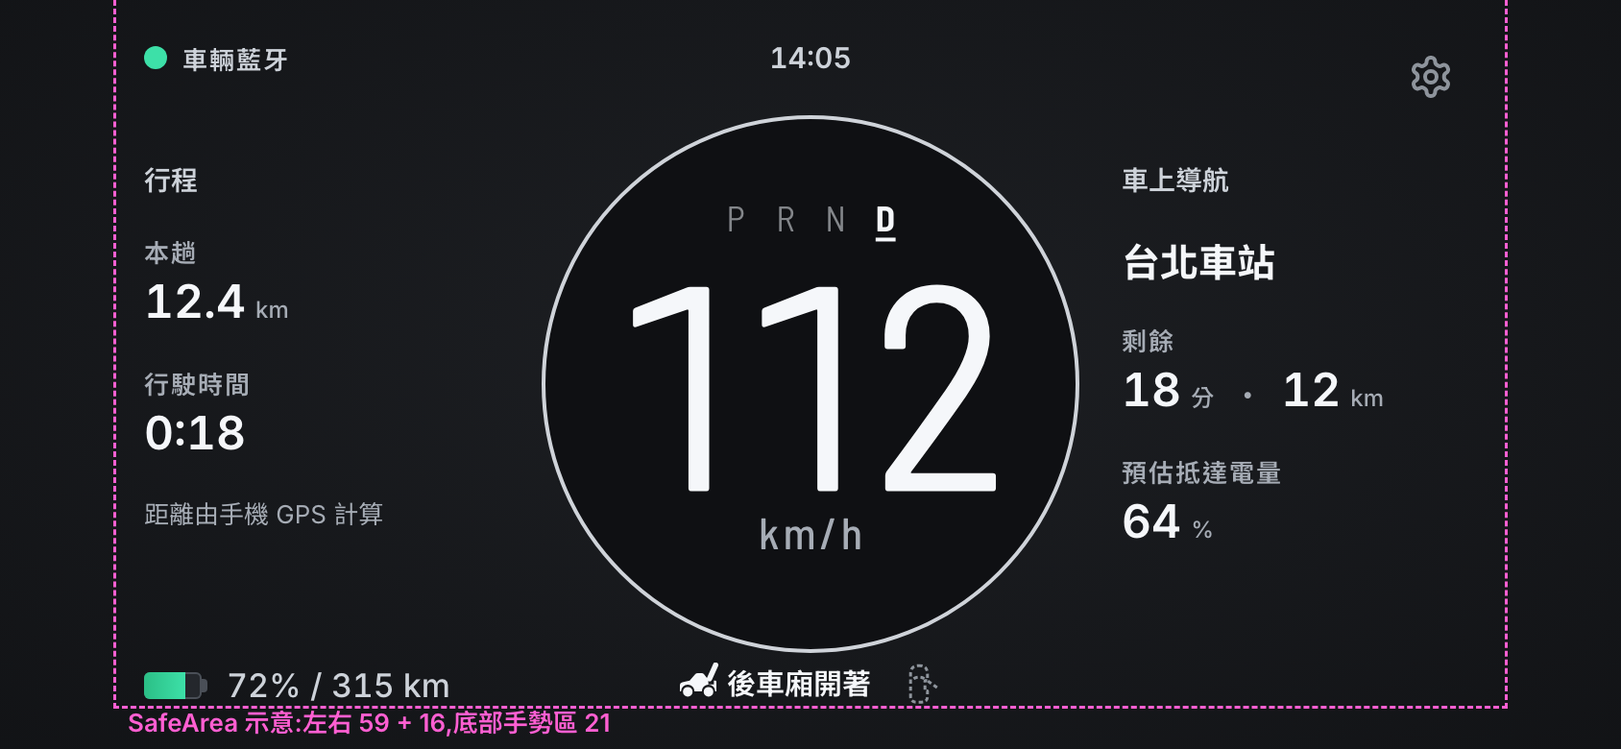
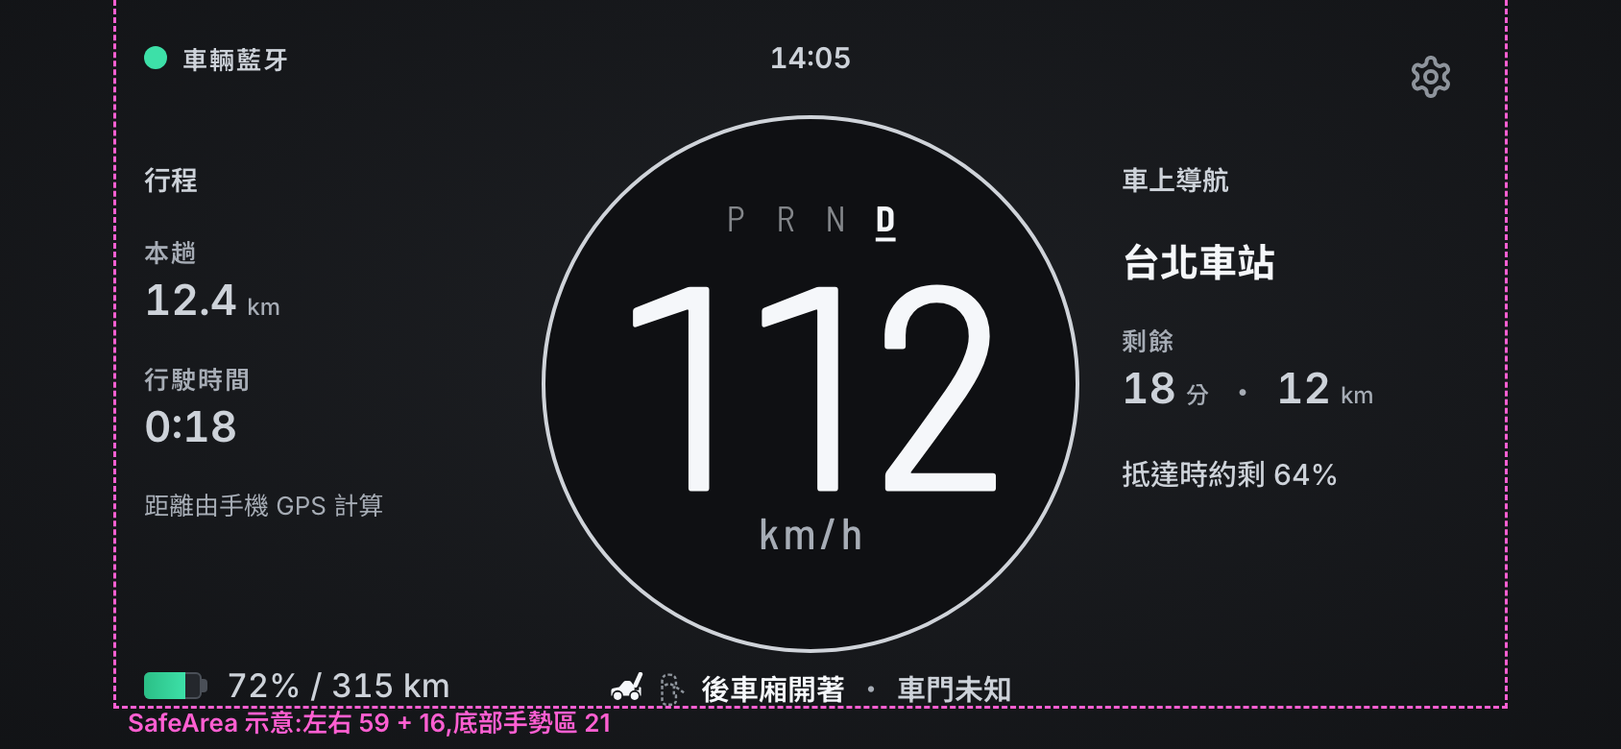
Design round 12: A adjustment 2, fix 1 (five critique points) and rulings L74–L79
The owner picked A, approved the PRODUCT.md edits in 96b363f, asked for
the five points of the 06-01 critique to be fixed, and chose to dim the
ring at night.

main-redesign-a2.html:
- Status row: icons in fixed order (18 px) before one sentence, top at
  y 350 (out of the gauge area). When it can't fit in 300 px, it steps
  down: 13 px, then "N 處開著" with unknown parts as dashed icons only,
  then the threshold sentence alone. New screen ⑤ shows the fullest case.
- Arrival battery is now the sentence 「抵達時約剩 64%」 (15/500),
  smaller than the live battery. Wing values are 22 px text.secondary.
- Night ring uses text.dim #6B7078, darker than the night numeral; new
  screen ⑥ and a self-check line for it.
- Unknown door gets the words 「車門未知」.
- Over the custom threshold the ring goes from 2 to 5 px, replacing the
  110 tick.
Page self-check: 0 issues at 1280, 1440 and 390. The detector flags only
Inter, which DESIGN.md pins.

00-rulings.md: L74 A picked, L75 360° ring, L76 adjustment 2 (not final),
L77 night ring, L78 the five fixes, L79 PRODUCT.md approved.

Claude-Session: https://claude.ai/code/session_01X7sNsGCLjkxn9JiGuuuQAw

diff --git a/docs/design/frames/main-redesign-a2.html b/docs/design/frames/main-redesign-a2.html
@@ -260,16 +260,22 @@
   .wing .wi { display: flex; flex-direction: column; flex: none; margin-top: 17px; }
   .wing .pt + .wi, .wing .dest + .wi { margin-top: 20px; }
   .wing .wk { font-size: 13px; line-height: 16px; font-weight: 600; letter-spacing: 1px; color: var(--unit); white-space: nowrap; }
-  .wing .wv { margin-top: 3px; font-size: 24px; line-height: 28px; font-weight: 600; color: var(--num); font-variant-numeric: tabular-nums; white-space: nowrap; }
+  .wing .wv { margin-top: 3px; font-size: 22px; line-height: 26px; font-weight: 600; color: var(--sec); font-variant-numeric: tabular-nums; white-space: nowrap; }  /* 修正 1:22 / text.secondary,白色只留給車速 */
   .wing .wv small { font-size: 12px; font-weight: 500; color: var(--unit); margin-left: 5px; }
   .wing .wv .sep { color: var(--unit); margin: 0 10px; font-weight: 500; font-size: 15px; }
   .wing .dest { flex: none; margin-top: 20px; font-size: 20px; line-height: 26px; font-weight: 700; color: var(--num); white-space: nowrap; overflow: hidden; text-overflow: ellipsis; }
   .wing .note { flex: none; margin-top: 20px; font-size: 13px; line-height: 17px; color: var(--unit); }
+  .wing .eta { flex: none; margin-top: 18px; font-size: 15px; line-height: 20px; font-weight: 500; color: var(--sec); white-space: nowrap; }  /* 修正 1:預估抵達電量改成一句,比左下的電量(17 / 500)小 */
   /* 狀態列:圓環正下方一行,圖示 22 + 字 15 / 600 text.primary;開著的那格「圖示 + 字」,未知的那格只有虛線圖示(灰、不加字) */
-  .srow { position: absolute; display: flex; align-items: center; justify-content: center; gap: 16px; height: 22px; white-space: nowrap; }
-  .srow .si { display: flex; align-items: center; gap: 4px; }
+  /* 修正 1:圖示照固定順序排在前面(18 × 18、間隔 6),後面接一句話;上緣 y 350(不進量表區)、高 18。放不下時依序:13 px → 開著的部位改成「N 處開著」、未知不加字 → 只留門檻那句 */
+  .srow { position: absolute; display: flex; align-items: center; justify-content: center; gap: 6px; height: 18px; white-space: nowrap; }
+  .srow .si { display: flex; align-items: center; gap: 0; }
+  .srow .si.i { gap: 6px; }
   .srow .ri { display: block; flex: none; }
-  .srow .st { font-size: 15px; line-height: 16px; font-weight: 600; color: var(--num); }
+  .srow .st { font-size: 15px; line-height: 18px; font-weight: 600; color: var(--num); }
+  .srow .st.unk { color: var(--sec); }
+  .srow .sp { font-size: 15px; line-height: 18px; color: var(--unit); margin: 0 6px; }
+  .srow.s13 .st, .srow.s13 .sp { font-size: 13px; }
   /* 頁面:和 Pen 匯出圖並排 */
   .pair { display: grid; grid-template-columns: repeat(auto-fit, minmax(min(100%, 420px), 1fr)); gap: 10px 18px; margin: 10px 0 8px; }
   .pair .fit, .pair .fitimg { width: 100%; }
@@ -297,12 +303,26 @@
   </ul>
 </section>
 
+<section id="fix1" class="rev">
+  <h2>修正 1(2026-10-26):設計審查的 5 點(L77、L78)</h2>
+  <p>老闆說這 5 點由 tsla-speed-meter-80 改;夜間老闆選「外圈變暗」。Pen 沒有跟著改,這頁是最新的。</p>
+  <ul>
+    <li><b>狀態列放得下</b>:圖示照固定順序(前車廂、後車廂、車門、門檻)排前面,縮成 18;後面接一句話,上緣 y 350 不進量表區。放不下 300 寬時依序退:15 → 13 px → 「N 處開著」、未知只留虛線圖示 → 只留門檻那句。⑤ 是最擠的情況。</li>
+    <li><b>不會把預估電量看成即時電量</b>:「預估抵達電量 64%」改成一句「抵達時約剩 64%」(15 px),比左下的即時電量(17 px)小;兩側數值 24 → 22 px、改用 text.secondary,白色只留給車速。行駛時間和小字保留(老闆喜歡 Dashla 的寫法)。</li>
+    <li><b>夜間圓環變暗</b>:夜間用 text.dim #6B7078,比夜間車速暗(⑥)。白天照舊 #CFD3D9。</li>
+    <li><b>車門未知有字</b>:狀態列多「車門未知」(text.secondary),不再只有虛線(④)。</li>
+    <li><b>超過門檻更明顯</b>:圓環 2 → 5 px,不變色、不閃(② ⑤),取代 110 刻痕。</li>
+  </ul>
+</section>
+
 <section id="a2">
   <h2>四張畫面(左:HTML 主稿;右:Pen 匯出,只拿來對照)</h2>
   <div class="pair"><figure><div data-fit="A-drive-ble"></div><figcaption data-cap="A-drive-ble"></figcaption></figure><figure><div class="fitimg"><img src="main-redesign/pen-adj/A2-drive-ble.png" width="844" height="390" alt="Pen 匯出 A2 ①"></div><figcaption>Pen 匯出(調整 2 ①)</figcaption></figure></div>
   <div class="pair"><figure><div data-fit="A-drive-gps"></div><figcaption data-cap="A-drive-gps"></figcaption></figure><figure><div class="fitimg"><img src="main-redesign/pen-adj/A2-drive-gps.png" width="844" height="390" alt="Pen 匯出 A2 ②"></div><figcaption>Pen 匯出(調整 2 ②)</figcaption></figure></div>
   <div class="pair"><figure><div data-fit="A-parked"></div><figcaption data-cap="A-parked"></figcaption></figure><figure><div class="fitimg"><img src="main-redesign/pen-adj/A2-parked.png" width="844" height="390" alt="Pen 匯出 A2 ③"></div><figcaption>Pen 匯出(調整 2 ③)</figcaption></figure></div>
   <div class="pair"><figure><div data-fit="A-drive-ble-unknown"></div><figcaption data-cap="A-drive-ble-unknown"></figcaption></figure><figure><div class="fitimg"><img src="main-redesign/pen-adj/A2-drive-ble-unknown.png" width="844" height="390" alt="Pen 匯出 A2 ④"></div><figcaption>Pen 匯出(調整 2 ④)</figcaption></figure></div>
+  <h3>修正 1 新增的兩張(Pen 沒有)</h3>
+  <div class="pair"><figure><div data-fit="A-drive-all"></div><figcaption data-cap="A-drive-all"></figcaption></figure><figure><div data-fit="A-drive-night"></div><figcaption data-cap="A-drive-night"></figcaption></figure></div>
 </section>
 
 <section id="compare">
@@ -717,32 +737,45 @@ const scr = (inner) => inner + lgear(G15) + safe(G15);
 
 /* ===================== A 調整 2(2026-10-26):Pen 的「A 雙翼 · 調整 2」搬回 HTML ===================== */
 // 量表:整圈細圓環 + 深色圓盤,沒有亮弧、紅刻、刻度。圓心、半徑和 A 原稿同(GEO.A),數字和單位照舊呼叫 numUnit(= gC 同一段)
-const A2 = { cx: 150, cy: 150, ring: GEO.A.ring, sw: 2, ringC: "#cfd3d9", disc: "#0f1013", cell: 26 };
+// 修正 1:夜間圓環用 text.dim #6B7078(DESIGN.md:只給裝飾線),比夜間車速 #C0C2C4 暗;超過自訂門檻時圓環 2 → 5 px(中性、不閃,取代 110 刻痕)
+const A2 = { cx: 150, cy: 150, ring: GEO.A.ring, sw: 2, swThr: 5, ringC: "#cfd3d9", ringNight: "#6b7078", disc: "#0f1013", cell: 26 };
 // P R N D 每格 26(DESIGN.md 是 18):只換格寬,字級、粗細、底線、基線都走 gearRow 原本的程式
 const gearRowW = (S, gl, t, L) => { const c0 = GEAR.cell; GEAR.cell = A2.cell; try { return gearRow(S, gl, t, L); } finally { GEAR.cell = c0; } };
 function gA2(v, gl, t = TC, o = {}) {
   const S = 300, L = LAYOUT_C(S), r = A2.ring;
   let g = svgOpen(S) + `<circle class="disc" cx="${A2.cx}" cy="${A2.cy}" r="${r - A2.sw / 2}" fill="${A2.disc}"/>`;
   g += isNA(v) ? `<circle cx="${A2.cx}" cy="${A2.cy}" r="${r}" fill="none" stroke="${t.nodata}" stroke-width="2" stroke-dasharray="5 8"/>`
-    : `<circle class="ring" cx="${A2.cx}" cy="${A2.cy}" r="${r}" fill="none" stroke="${A2.ringC}" stroke-width="${A2.sw}"/>`;
+    : `<circle class="ring${o.thr ? " thr" : ""}" cx="${A2.cx}" cy="${A2.cy}" r="${r}" fill="none" stroke="${t.night ? A2.ringNight : A2.ringC}" stroke-width="${o.thr ? A2.swThr : A2.sw}"/>`;
   return g + numUnit(v, S, t, L, o) + gearRowW(S, gl, t, L) + (o.over ? triMark(S) : "") + `</svg>`;
 }
 
-// 狀態列(圓環正下方):開著的那格 = 圖示 + 短字;未知的那格只有虛線圖示。順序照 4 格由左到右(前車廂、後車廂、車門、自訂門檻)
+// 狀態列(圓環正下方,修正 1):圖示照 4 格的固定順序(前車廂、後車廂、車門、自訂門檻)排在前面,後面接一句話:
+// 「開著的部位用、連起來 + 開著」・「未知的部位 + 未知」(text.secondary)・「超過 110（自訂）」。
+// 放不下 300 寬時依序退:15 px → 13 px → 開著的部位改成「N 處開著」、未知不加字(虛線圖示還在)→ 只留門檻那句。
 // 圖示自己帶讀屏句(sayOf),字 aria-hidden,不唸兩次
-const SROW = { cx: 422, top: 345, h: 22 };
-const srIcon = (n, st, t = TC) => `<svg class="ri" data-ri="${st === "unknown" ? n + ":unknown" : n}" role="img" aria-label="${sayOf(n, st)}" width="22" height="22" viewBox="0 0 22 22">${ICON[n](st === "unknown" ? t.icon : t.num, st === "unknown")}</svg>`;
-const srWord = (n) => n === "thr" ? `超過 ${THR}（自訂）` : `${PART[n]}開著`;
-const srow = (ring = {}) => { const items = RING_KEYS.map(n => [n, stOf(ring, n)]).filter(([, st]) => st);
+const SROW = { cx: 422, top: 350, h: 18, w: 300, ic: 18, icGap: 6, gap: 6 };
+const srIcon = (n, st, t = TC) => `<svg class="ri" data-ri="${st === "unknown" ? n + ":unknown" : n}" role="img" aria-label="${sayOf(n, st)}" width="${SROW.ic}" height="${SROW.ic}" viewBox="0 0 22 22">${ICON[n](st === "unknown" ? t.icon : t.num, st === "unknown")}</svg>`;
+const srGroups = (ring, step) => { const open = CAR_KEYS.filter(n => ring[n] === "open"), unk = CAR_KEYS.filter(n => ring[n] === "unknown"), g = [];
+  if (step < 3 && open.length) g.push(["", step < 2 || open.length < 2 ? open.map(n => PART[n]).join("、") + "開著" : `${open.length} 處開著`]);
+  if (step < 2 && unk.length) g.push(["unk", unk.map(n => PART[n]).join("、") + "未知"]);
+  if (ring.thr) g.push(["", `超過 ${THR}（自訂）`]);
+  return g; };
+const srWidth = (ring, step, nIcons) => { const fs = step ? 13 : 15, g = srGroups(ring, step), sp = rlWidth("・", fs) + 12;
+  return nIcons * SROW.ic + (nIcons - 1) * SROW.icGap + (g.length ? SROW.gap : 0) + g.reduce((s, [, w]) => s + rlWidth(w, fs), 0) + Math.max(0, g.length - 1) * sp; };
+const srow = (ring = {}, t = TC) => { const items = RING_KEYS.map(n => [n, stOf(ring, n)]).filter(([, st]) => st);
   if (!items.length) return "";
-  return `<div class="srow" style="left:${SROW.cx - 150}px;top:${SROW.top}px;width:300px">${items.map(([n, st]) => `<span class="si">${srIcon(n, st)}${st === "unknown" ? "" : `<span class="st" aria-hidden="true">${srWord(n)}</span>`}</span>`).join("")}</div>`; };
+  let step = 0; while (step < 3 && srWidth(ring, step, items.length) > SROW.w) step++;
+  const words = srGroups(ring, step).map(([c, w]) => `<span class="st${c ? " " + c : ""}" aria-hidden="true">${w}</span>`).join(`<span class="sp" aria-hidden="true">・</span>`);
+  return `<div class="srow${step ? " s13" : ""}" data-step="${step}" style="left:${SROW.cx - SROW.w / 2}px;top:${SROW.top}px;width:${SROW.w}px">` +
+    `<span class="si i">${items.map(([n, st]) => srIcon(n, st, t)).join("")}</span>${words ? `<span class="si w">${words}</span>` : ""}</div>`; };
 
 // 行駛兩側(參考 Dashla:小標題在上、大數字在下)。左右兩塊都從 y 84 開始,同一高度
 const NOTE_DRIVE = "距離由手機 GPS 計算";
 const LW = { x: 75, y: 84, w: 185, h: 212 }, RW = { x: 584, y: 84, w: 185, h: 212 };
 const wi = (k, v) => `<div class="wi"><span class="wk">${k}</span><span class="wv">${v}</span></div>`;
 const WING_TRIP = ttl("行程") + wi("本趟", "12.4<small>km</small>") + wi("行駛時間", "0:18") + `<div class="note">${NOTE_DRIVE}</div>`;
-const WING_NAV = ttl("車上導航") + `<div class="dest">台北車站</div>` + wi("剩餘", `18<small>分</small><span class="sep">・</span>12<small>km</small>`) + wi("預估抵達電量", "64<small>%</small>");
+// 修正 1:預估抵達電量不再是一個大數字(會和左下的即時電量 72% 搞混),改成一句「抵達時約剩 64%」,比即時電量小
+const WING_NAV = ttl("車上導航") + `<div class="dest">台北車站</div>` + wi("剩餘", `18<small>分</small><span class="sep">・</span>12<small>km</small>`) + `<div class="eta">抵達時約剩 64%</div>`;
 
 // 停車胎壓:車圖下面多一行讀值時間「3 分鐘前」(DESIGN.md「Shared time line」的寫法)。
 // 複製來的 tirePanel 只在有舊值時才畫這一行,所以這裡加一個「recent」狀態(四輪都是 3 分鐘前),其他狀態照舊
@@ -754,27 +787,35 @@ const tireRecent = (x, y, w, [i, n], t = TC) => tirePanel(t, "recent", w, x, y).
   dots(i, n, "abs", `left:${x + w - 6}px;top:${y + 9}px`);
 
 /* ---------- 4 張畫面 + 每張的預期內容(自查用) ---------- */
-const R_TRUNK = { trunk: "open" }, R_THR = { thr: true }, R_UNK = { trunk: "open", door: "unknown" };
+const R_TRUNK = { trunk: "open" }, R_THR = { thr: true }, R_UNK = { trunk: "open", door: "unknown" }, R_ALL = { frunk: "open", trunk: "open", door: "unknown", thr: true };
+const NT = tcOf(true);
 const SCREENS = {
   "A-drive-ble": { dir: "A", n: "①", title: "A 調整 2 ① 行駛・車輛藍牙", exp: { v: 112, gl: "D", ri: ["trunk"], rl: "後車廂開著", batt: true, tire: false },
     html: () => scr(gaugeBox(gA2(112, "D")) + srow(R_TRUNK) + chipBle() + TIME + pnl(LW, WING_TRIP, "wing") + pnl(RW, WING_NAV, "wing") + hbatt(G15, BATT, false)) },
   "A-drive-gps": { dir: "A", n: "②", title: "A 調整 2 ② 行駛・GPS 備援", exp: { v: 118, gl: null, ri: ["thr"], rl: `超過 ${THR}（自訂）`, batt: false, tire: false, gps: true },
-    html: () => scr(gaugeBox(gA2(118, null)) + srow(R_THR) + chipGps() + TIME + pnl(LW, WING_TRIP, "wing")) },
+    html: () => scr(gaugeBox(gA2(118, null, TC, { thr: true })) + srow(R_THR) + chipGps() + TIME + pnl(LW, WING_TRIP, "wing")) },
   "A-parked": { dir: "A", n: "③", title: "A 調整 2 ③ 停車(P)", exp: { v: 0, gl: "P", ri: [], rl: null, batt: true, tire: true, hits: 2, charge: true },
     html: () => scr(gaugeBox(gA2(0, "P")) + chipBle() + PILL + TEMP + pnl(LP, ttl("行程", [1, 2]) + rows(TRIP_PARK, { note: true, tight: true, charge: CHARGE })) + tireRecent(585, 72, 184, [1, 3]) +
       hit(75, 72, 120, 44, "左:行程") + hit(585, 59, 124, 44, "右:胎壓") + hbatt(G15, BATT, true)) },
-  "A-drive-ble-unknown": { dir: "A", n: "④", title: "A 調整 2 ④ 行駛・車輛藍牙:後車廂開著 + 車門未知", exp: { v: 112, gl: "D", ri: ["trunk", "door:unknown"], rl: "後車廂開著", batt: true, tire: false },
+  "A-drive-ble-unknown": { dir: "A", n: "④", title: "A 調整 2 ④ 行駛・車輛藍牙:後車廂開著 + 車門未知", exp: { v: 112, gl: "D", ri: ["trunk", "door:unknown"], rl: "後車廂開著車門未知", batt: true, tire: false },
     html: () => scr(gaugeBox(gA2(112, "D")) + srow(R_UNK) + chipBle() + TIME + pnl(LW, WING_TRIP, "wing") + pnl(RW, WING_NAV, "wing") + hbatt(G15, BATT, false)) },
+  // 修正 1 新增:最擠的狀態列(前、後車廂開著 + 車門未知 + 超過門檻),和夜間
+  "A-drive-all": { dir: "A", n: "⑤", title: "A 調整 2 ⑤ 行駛・車輛藍牙:狀態列最擠的時候", exp: { v: 118, gl: "D", ri: ["frunk", "trunk", "door:unknown", "thr"], rl: "2 處開著超過 110（自訂）", batt: true, tire: false },
+    html: () => scr(gaugeBox(gA2(118, "D", TC, { thr: true })) + srow(R_ALL) + chipBle() + TIME + pnl(LW, WING_TRIP, "wing") + pnl(RW, WING_NAV, "wing") + hbatt(G15, BATT, false)) },
+  "A-drive-night": { dir: "A", n: "⑥", night: true, title: "A 調整 2 ⑥ 行駛・車輛藍牙・夜間", exp: { v: 112, gl: "D", ri: ["trunk"], rl: "後車廂開著", batt: true, tire: false, night: true },
+    html: () => scr(gaugeBox(gA2(112, "D", NT)) + srow(R_TRUNK, NT) + chipBle() + TIME + pnl(LW, WING_TRIP, "wing") + pnl(RW, WING_NAV, "wing") + hbatt(G15, BATT, false)) },
 };
 const CAPS = {
-  "A-drive-ble": "整圈細圓環 + 深色圓盤 + 112 + <code>P R N D</code>(D,每格 26)。圓環正下方「[圖示] 後車廂開著」。左:行程(本趟 12.4 km、行駛時間 0:18、距離由手機 GPS 計算);右:車上導航(台北車站、剩餘 18 分・12 km、預估抵達電量 64%)。上方時間 14:05,左下 72% / 315 km。",
-  "A-drive-gps": "◐ GPS · 藍牙資料過期;118,沒有 <code>P R N D</code>。圓環上沒有 110 刻痕,正下方「[圖示] 超過 110（自訂）」。照 L71 不畫車況;右邊空白、左下空。",
+  "A-drive-ble": "整圈細圓環 + 深色圓盤 + 112 + <code>P R N D</code>(D,每格 26)。圓環正下方「[圖示] 後車廂開著」。左:行程(本趟 12.4 km、行駛時間 0:18、距離由手機 GPS 計算);右:車上導航(台北車站、剩餘 18 分・12 km、「抵達時約剩 64%」)。兩側數值 22 px text.secondary,白色只給車速。上方時間 14:05,左下 72% / 315 km。",
+  "A-drive-gps": "◐ GPS · 藍牙資料過期;118,沒有 <code>P R N D</code>。超過自訂門檻:圓環變粗(2 → 5 px,不變色、不閃),正下方「[圖示] 超過 110（自訂）」。照 L71 不畫車況;右邊空白、左下空。",
   "A-parked": "日期膠囊、車外 23°。0 + P。左「行程 ⌄」兩組(同 A 原稿);右「胎壓 ⌄」,車圖下面多一行「3 分鐘前」。",
-  "A-drive-ble-unknown": "同 ①;狀態列「[圖示] 後車廂開著」後面接車門的虛線圖示(灰、不加字),讀屏唸「車門狀態未知」。",
+  "A-drive-ble-unknown": "同 ①;狀態列「[後車廂][車門虛線] 後車廂開著 ・ 車門未知」,「車門未知」用 text.secondary。讀屏唸圖示的句子(「後車廂開著」「車門狀態未知」)。",
+  "A-drive-all": "狀態列最擠的時候:前、後車廂開著 + 車門未知 + 超過 110。整句放不下 300 寬,依序退到「4 個圖示 + 2 處開著 ・ 超過 110（自訂）」(13 px);車門未知只留虛線圖示。圓環變粗。",
+  "A-drive-night": "同 ①,夜間(最暗的那一檔)。圓環改用 text.dim #6B7078,比夜間車速 #C0C2C4 暗;其他字照夜間的值。",
 };
 
 const PNG = Object.keys(SCREENS);
-const screenEl = (id) => `<div class="screen cth land" data-screen="${id}" style="width:844px;height:390px">${SCREENS[id].html()}</div>`;
+const screenEl = (id) => `<div class="screen cth land${SCREENS[id].night ? " night" : ""}" data-screen="${id}" style="width:844px;height:390px">${SCREENS[id].html()}</div>`;
 
 /* ---------- 頁面 ---------- */
 function overview() {
@@ -843,7 +884,7 @@ function iconBoxes(k) {
 const minOver = (pts, fn) => { let m = 1e9; for (const [x, y] of pts) { const d = fn(x, y); if (d < m) m = d; } return m; };
 
 // 調整 2 的量表圖形 = 整圈圓環(半徑 139、線寬 2)。點到圓環的距離
-const dRing = (px, py) => Math.abs(Math.hypot(px - A2.cx, py - A2.cy) - A2.ring) - A2.sw / 2;
+const dRing = (px, py) => Math.abs(Math.hypot(px - A2.cx, py - A2.cy) - A2.ring) - Math.max(A2.sw, A2.swThr) / 2;  // 用最粗的(超過門檻 5 px)量,保守
 function geoAuditA2() {
   const L = LAYOUT_C(300), issues = [], res = { k: "A" };
   // 1. 數字墨跡、單位墨跡 ↔ 圓環(0–240 每一個整數車速)
@@ -891,7 +932,7 @@ function screenAuditA2(f) {
   // 2. 量表區位置;數字和單位和現行 gC 完全相同(M12-01);P R N D 基線和現行同、只有格寬 26
   const gb = loc(f.querySelector("[data-gauge]").getBoundingClientRect());
   if ([gb.l - 272, gb.t - 50, gb.r - 572, gb.b - 350].some(d => Math.abs(d) > .5)) issues.push("量表區不在 (272, 50) 300 × 300");
-  const ref = gC(e.v, 300, e.gl, TC, {}), mine = sp.html(), refRow = (ref.match(/<g class="gears">.*?<\/g>/) || [""])[0];
+  const ref = gC(e.v, 300, e.gl, tcOf(e.night), {}), mine = sp.html(), refRow = (ref.match(/<g class="gears">.*?<\/g>/) || [""])[0];
   if (!texts(ref.replace(refRow, "")).every(s => mine.includes(s))) issues.push("數字 / 單位和現行 gC 不同");
   const gears = f.querySelector(".gears");
   if (gears) { const xs = [...gears.querySelectorAll("text")].map(x => +x.getAttribute("x")), ys = new Set([...gears.querySelectorAll("text")].map(x => x.getAttribute("y"))), refY = (refRow.match(/y="([\d.]+)"/) || [])[1];
@@ -911,7 +952,8 @@ function screenAuditA2(f) {
   if (sr) { const items = [...sr.querySelectorAll(".si")].map(s => loc(s.getBoundingClientRect())), l = Math.min(...items.map(r => r.l)), r = Math.max(...items.map(r => r.r)), t = Math.min(...items.map(r => r.t)), b = Math.max(...items.map(r => r.b));
     if (l < 271.5 || r > 572.5 || b > 369.5) issues.push(`狀態列不在 x 272–572、y ≤369(${l.toFixed(1)}–${r.toFixed(1)}, ${t.toFixed(1)}–${b.toFixed(1)})`);
     const ringGap = minOver(perim({ l: l - 272, r: r - 272, t: t - 50, b: b - 50 }), dRing); if (ringGap < 4) issues.push(`狀態列離圓環 ${ringGap.toFixed(1)} < 4`);
-    if (t < 350) DEV.push(`${id}:狀態列上緣 y ${t.toFixed(1)},進到量表區 ${(350 - t).toFixed(1)} px(離圓環 ${ringGap.toFixed(1)} px)`);
+    window.__srGap = Math.min(window.__srGap ?? 1e9, ringGap);
+    if (t < 349.5) DEV.push(`${id}:狀態列上緣 y ${t.toFixed(1)},進到量表區 ${(350 - t).toFixed(1)} px(離圓環 ${ringGap.toFixed(1)} px)`);
     if ([...sr.querySelectorAll(".st")].some(s => s.getAttribute("aria-hidden") !== "true")) issues.push("狀態列的字會被讀屏重複唸"); }
   if (!!f.querySelector(".tp") !== e.tire) issues.push("胎壓");
   const lbl = f.querySelector(".chip .lbl").textContent, txtAll = f.textContent;
@@ -947,15 +989,17 @@ function notesA2(g) {
   const d = (x) => x.toFixed(1);
   document.getElementById("diffs").innerHTML = [
     `<b>車速數字比 Pen 匯出寬</b>:HTML 照 DESIGN.md 用等寬數字(tabular,「1」和其他數字一樣寬),和現行 app 同一段程式;Pen 匯出是一般數字,「1」比較窄。HTML 才是對的。數字墨跡離圓環最近 ${d(g.numG.d)} px(${g.numG.v} km/h,要 ≥9),單位離圓環 ${d(g.unitG)} px。`,
-    `<b>要裁定 1:狀態列進到量表區</b>。調整 2 把「圖示 + 字」放在圓環正下方,圖示上緣在 y ≈345,進到 300 × 300 量表區(L35,下緣 y 350)約 5 px;離圓環本身還有 ${DEV.length ? DEV[0].match(/離圓環 ([\d.]+)/)[1] : "?"} px,不會碰到。往下移會碰到底部手勢區(y 369)。這頁照調整 2 畫,沒有改。`,
-    `<b>要裁定 2:新的值</b>。圓盤 #0F1013、圓環 #CFD3D9 不在 DESIGN.md 的 token 裡;<code>P R N D</code> 每格 26(DESIGN.md 寫 18 px per letter cell);行駛兩側數值 24 px(DESIGN.md 的 Trip value 是 18)。定案的話要寫進 DESIGN.md。`,
+    `<b>狀態列不進量表區了(修正 1)</b>:圖示縮成 18、上緣 y 350、高 18,離圓環最近 ${(() => { const r = window.__srGap; return r ? r.toFixed(1) : "?"; })()} px(超過門檻的 5 px 粗圓環也算進去)。${DEV.length ? "還有:" + DEV.join("、") : ""}`,
+    `<b>要裁定 2:新的值</b>。圓盤 #0F1013、圓環 #CFD3D9(夜間 text.dim #6B7078)、超過門檻時圓環 5 px 不在 DESIGN.md 裡;<code>P R N D</code> 每格 26(DESIGN.md 寫 18 px per letter cell);行駛兩側數值 22 px text.secondary(DESIGN.md 的 Trip value 是 18 text.primary);「抵達時約剩 64%」15 / 500。定案的話要寫進 DESIGN.md。`,
     `<b>要裁定 3:胎壓的「3 分鐘前」</b>。DESIGN.md 寫「車圖下面一行讀值時間」,但現行程式只在有舊值(超過 15 分鐘)時才畫;調整 2 改成新值也畫。這頁用一個「四輪都是 3 分鐘前」的範例狀態畫出來。`,
-    `<b>夜間還沒畫</b>:圓環 #CFD3D9 比夜間的車速數字 #C0C2C4 亮(調整 2 頁面自己也寫了「夜間圓環要比數字暗」),選定後一起處理。`,
+    `<b>110 刻痕換成圓環變粗(L78)</b>。L73 S12-08 的「錶上 110 的刻痕」在沒有刻度的圓環上沒有意義;改成超過門檻時圓環 2 → 5 px(中性色、不閃、不發聲),加上原本的小錶圖示和「超過 110（自訂）」。L73 S12-08 什麼時候亮、熄不變。`,
+    `<b>夜間(L77,老闆同意外圈變暗)</b>:⑥ 用最暗的那一檔畫;圓環 text.dim #6B7078 比夜間車速 #C0C2C4 暗,自查有一條專門檢查。`,
   ].map(x => `<li>${x}</li>`).join("");
 }
 const PAIRS = [["車速數字 text.primary / 圓盤", "#f5f7fa", A2.disc, 7], ["單位 unit / 圓盤", "#a6acb5", A2.disc, 4.5], ["P R N D 沒亮的 gear.off / 圓盤", "#83868a", A2.disc, 3], ["圓環 / 背景", A2.ringC, "#1d1f23", 3],
-  ["兩側標籤 unit / 背景", "#a6acb5", "#1d1f23", 4.5], ["兩側數值 text.primary / 背景", "#f5f7fa", "#1d1f23", 4.5], ["行駛面板標題 text.secondary", "#cdd2d9", "#1d1f23", 4.5], ["狀態列字 text.primary", "#f5f7fa", "#1d1f23", 4.5],
-  ["狀態列未知圖示 text.tertiary", "#8e949c", "#1d1f23", 3], ["停車面板標題(按鈕)accent.text", "#6fd8e2", "#1d1f23", 4.5]];
+  ["夜間圓環 text.dim / 背景", A2.ringNight, "#1d1f23", 3], ["夜間車速 / 圓盤", NIGHT_C.num, A2.disc, 7],
+  ["兩側標籤 unit / 背景", "#a6acb5", "#1d1f23", 4.5], ["兩側數值 text.secondary / 背景", "#cdd2d9", "#1d1f23", 4.5], ["抵達時約剩 text.secondary", "#cdd2d9", "#1d1f23", 4.5], ["行駛面板標題 text.secondary", "#cdd2d9", "#1d1f23", 4.5], ["狀態列字 text.primary", "#f5f7fa", "#1d1f23", 4.5],
+  ["狀態列「未知」字 text.secondary", "#cdd2d9", "#1d1f23", 4.5], ["狀態列未知圖示 text.tertiary", "#8e949c", "#1d1f23", 3], ["停車面板標題(按鈕)accent.text", "#6fd8e2", "#1d1f23", 4.5]];
 async function audit() {
   const out = [], bad = (t) => `<span class="bad">${t}</span>`; let n = 0; DEV.length = 0;
   if (!(await tnumFont())) { n++; out.push(`<li>${bad("等寬數字字型載不到,數字墨跡量不準(要網路)")}</li>`); }
@@ -977,6 +1021,9 @@ async function audit() {
   }
   if (DEV.length) out.push(`<li>要裁定(不算問題數):${DEV.join("、")}</li>`);
   const cp = PAIRS.map(([name, a, b, min]) => { const v = cr(a, b); if (v < min) n++; return `${name} ${v.toFixed(2)}${v < min ? bad(` < ${min}`) : ""}`; });
+  // 修正 1(老闆 2026-10-26:夜間外圈變暗):夜間圓環要比夜間車速暗
+  const nightOk = lum(A2.ringNight) < lum(NIGHT_C.num); if (!nightOk) n++;
+  cp.push(`夜間圓環亮度 ${lum(A2.ringNight).toFixed(3)} ${nightOk ? "<" : bad("≥")} 夜間車速 ${lum(NIGHT_C.num).toFixed(3)}`);
   const ce = document.getElementById("contrast"); if (ce) ce.innerHTML = `<b>對比</b>(這頁打開時算的):${cp.join(";")}。`;
   const ul = document.getElementById("checks"); if (ul) ul.innerHTML = out.join("") + `<li>共 ${n} 個問題</li>`;
   document.documentElement.dataset.issues = n;
@@ -988,7 +1035,7 @@ const cr = (a, b) => { const [x, y] = [lum(a), lum(b)].sort((p, q) => q - p); re
 
 const FONTS = ['400 100px "Barlow Semi Condensed"', '500 100px "Barlow Semi Condensed"', '700 100px "Barlow Semi Condensed"', '400 100px "Inter"', '500 100px "Inter"', '600 100px "Inter"', '700 100px "Inter"',
   '400 100px "Noto Sans TC"', '500 100px "Noto Sans TC"', '600 100px "Noto Sans TC"', '700 100px "Noto Sans TC"'];
-window.ready = Promise.all(FONTS.map(f => document.fonts.load(f, "0123456789—km/hmiKMHPRNDpsi%°・車速暫不可用胎壓左右前後分鐘小時天部分尚無讀值時間未知此路段限速公里英里檔行程車上導航台北站預估抵達電量本趟平均最高駛這用由手機計算外日藍牙輛中斷請老闆選資料過期開著超過自訂（）、距離和速依變化−狀態未知前後廂門剩餘分鐘前距離由手機調整"))).then(render, render)
+window.ready = Promise.all(FONTS.map(f => document.fonts.load(f, "0123456789—km/hmiKMHPRNDpsi%°・車速暫不可用胎壓左右前後分鐘小時天部分尚無讀值時間未知此路段限速公里英里檔行程車上導航台北站預估抵達電量本趟平均最高駛這用由手機計算外日藍牙輛中斷請老闆選資料過期開著超過自訂（）、距離和速依變化−狀態未知前後廂門剩餘分鐘前距離由手機調整約處時"))).then(render, render)
   .then(() => document.fonts.ready).then(() => { refreshTireLayouts(); return audit(); }).then(() => { document.body.dataset.ready = "1"; });
 </script>
 </body>

diff --git a/docs/design/00-rulings.md b/docs/design/00-rulings.md
@@ -339,6 +339,34 @@ Brief 在 `00-brief-main-redesign.md`。
   - **Q1 C 的右卡**:維持固定框,行駛中留白可以。
   - **S12-09 A 資訊偏多**:不改,留給老闆比較。頁面上照實寫「A 行駛中資訊最多」。
   - **S12-07 完整驗證**:老闆選定方向後,照 08「選定方向後的最低驗證組」補齊,做完才上車用。這不擋這一輪挑方向。
+- **L74 選 A**(使用者決定,2026-10-26):主畫面用 A「雙翼」。B、C 未選(保留參考)。
+  - 「開車時要不要看胎壓」「開車時上方要不要放時間」兩題沒回答,照現行:胎壓只在停車看,開車時上方放時間。
+- **L75 A 的量表**(使用者決定,2026-10-26,調整 1):外框改成 360° 一整圈、俐落的淡灰細線(#CFD3D9,2 px),不要紅色指針。白色速度弧一起拿掉,所以圓環沒有刻度。
+- **L76 調整 2**(主持人依設計審查和 Dashla 提出,使用者交代接著改,還沒說定案):
+  - 圓環裡一塊深色圓盤(#0F1013);`P R N D` 每格 26;
+  - 開車時兩側改成「小標題在上、數字在下」;
+  - 狀態列改成圓環正下方一行「圖示 + 字」;
+  - 停車胎壓下面一行讀值時間。
+  - 主稿是 `frames/main-redesign-a2.html`(L5:HTML 是主稿)。`.pen` 裡的調整 1、調整 2 只當對照,沒有跟著 L77、L78 改。
+- **L77 夜間圓環變暗**(使用者決定,2026-10-26):夜間圓環用 text.dim #6B7078,比夜間車速 #C0C2C4 暗;白天照舊 #CFD3D9。
+- **L78 設計審查 5 點的修正**(使用者交給 tsla-speed-meter-80,細節主持人裁定;依 `.impeccable/critique/2026-10-26T06-01-06Z…`):
+  - **狀態列放得下**:
+    - 圖示照固定順序(前車廂、後車廂、車門、自訂門檻)排在前面,18 × 18;後面接一句話。
+    - 上緣 y 350,不進量表區(L35)。
+    - 放不下 300 寬時依序退:15 px → 13 px →「N 處開著」、未知只留虛線圖示 → 只留門檻那句。
+  - **預估電量不和即時電量搞混**:
+    - 「預估抵達電量 64%」改成一句「抵達時約剩 64%」(15 / 500),比左下的即時電量(17 / 500)小。
+    - 兩側數值 22 px、用 text.secondary,白色只留給車速。
+    - 行駛時間和小字保留,因為老闆喜歡 Dashla 的寫法,審查原本建議拿掉。
+  - **車門未知加字**:狀態列多「車門未知」(text.secondary)。
+  - **超過自訂門檻**:
+    - 圓環 2 → 5 px,中性色、不閃、不發聲,加上原本的小錶圖示和「超過 110(自訂)」。
+    - 這取代 07 和頁面上「錶上 110 的刻痕」,因為圓環沒有刻度了。L73 S12-08 什麼時候亮、什麼時候熄不變。
+  - **還沒定**:圓盤、圓環、`P R N D` 26、兩側字級要不要寫進 DESIGN.md,等老闆說調整 2 定案。
+- **L79 PRODUCT.md 更新**(使用者同意,2026-10-26,commit 96b363f):
+  - 改成 Swift 的 iPhone app;
+  - 拿掉鏡像模式;
+  - 資料來源改成先用車子藍牙,GPS 只補車速。
 
 ## 待使用者決定
 
@@ -346,4 +374,4 @@ Brief 在 `00-brief-main-redesign.md`。
 - 新畫面要不要同步回 `.pen`(L5)。
 - 測速提醒 v1 只上附近模式,前方模式和琥珀色等驗證後再開(L8)。這會讓 `[10 §drive]` 草圖裡的「350 m」和琥珀色在 v1 不會出現。
 - 點位資料由開發者本人維護、有效期限待實測(L23)。
-- `PRODUCT.md` 要不要更新(拿掉鏡像、Fleet API 那段過時;L58)。
+- A 調整 2 定案(L76):定案後把新的值寫進 DESIGN.md,再照 08 補完整驗證(S12-07)。
